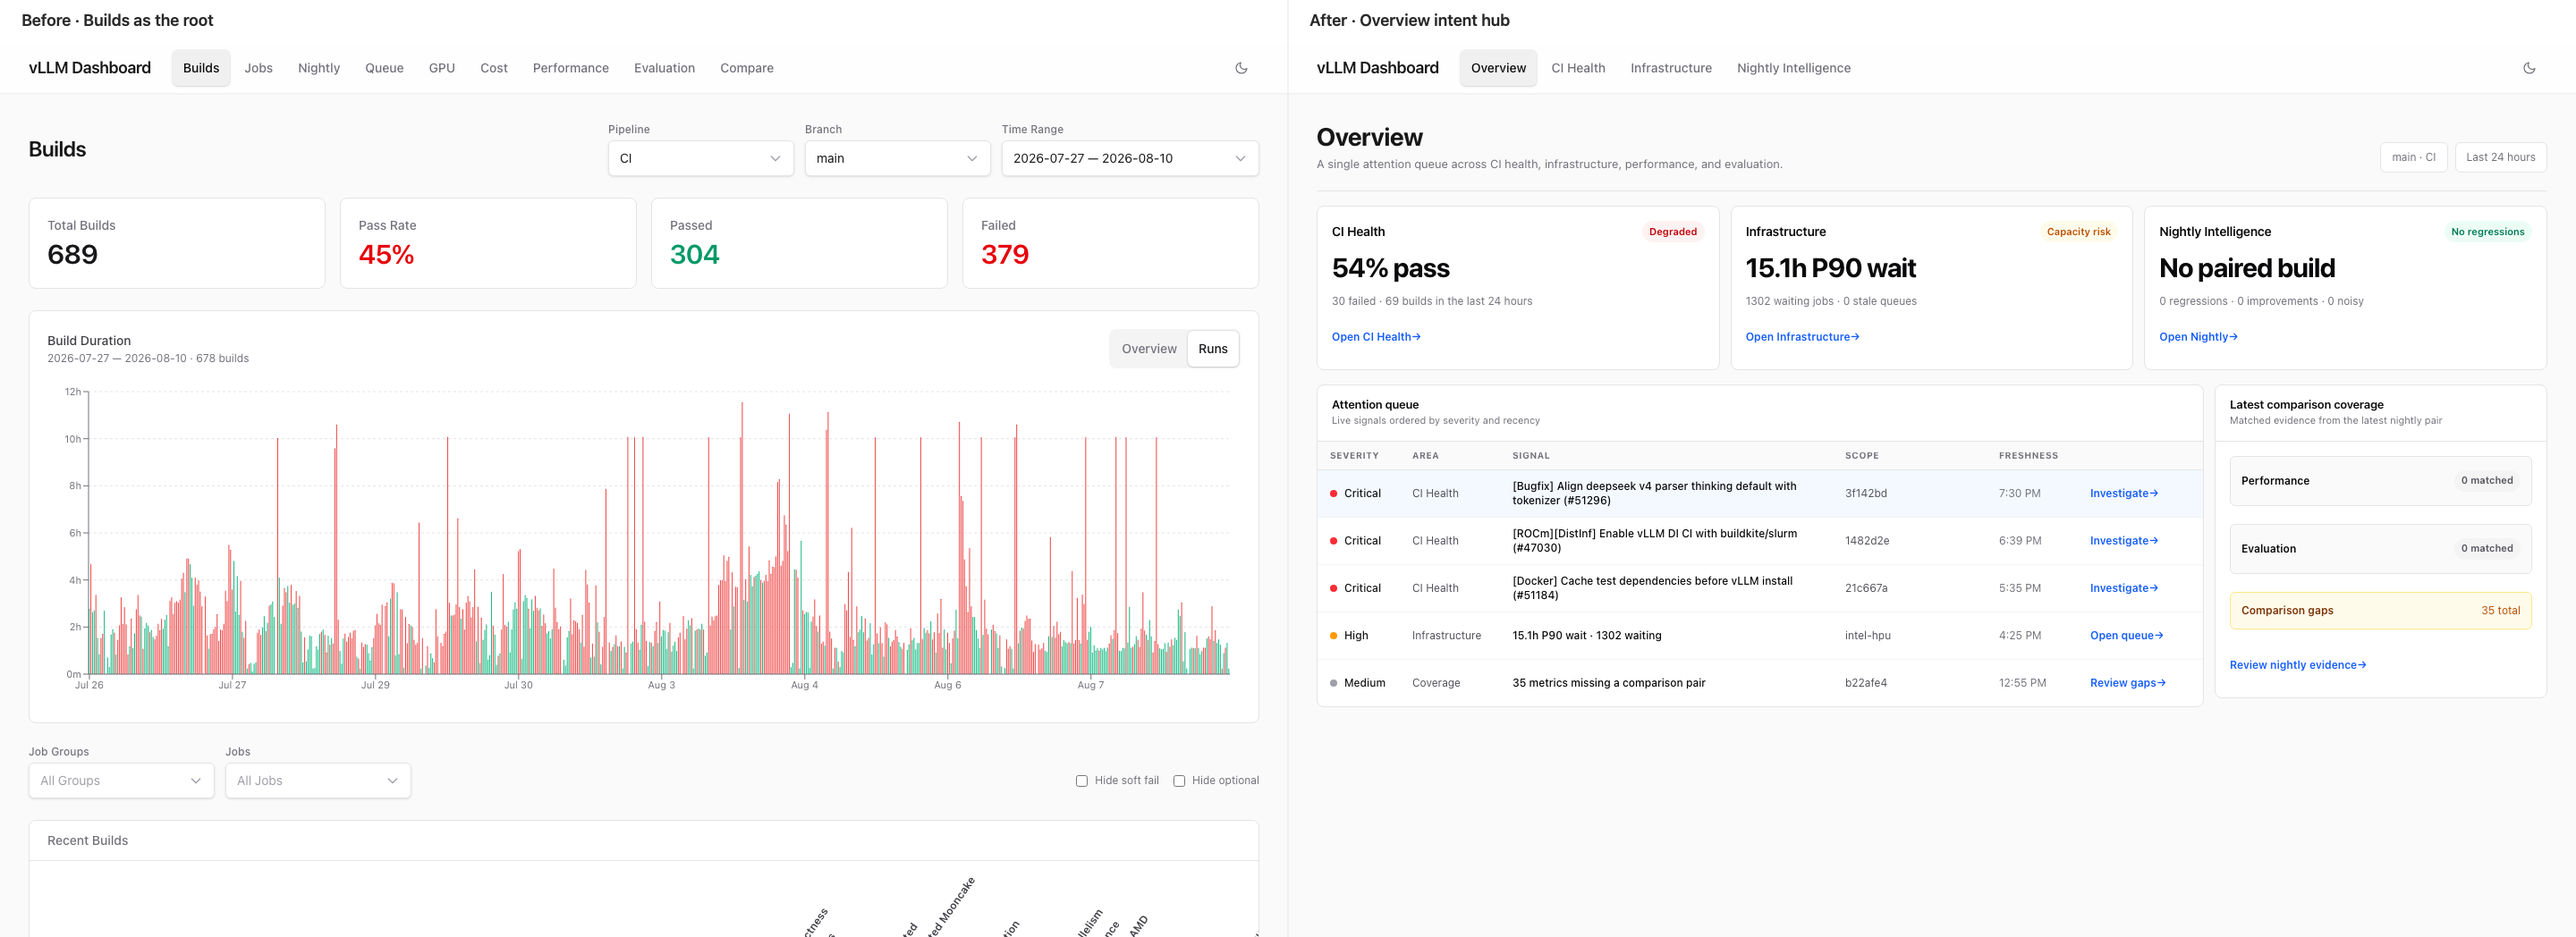
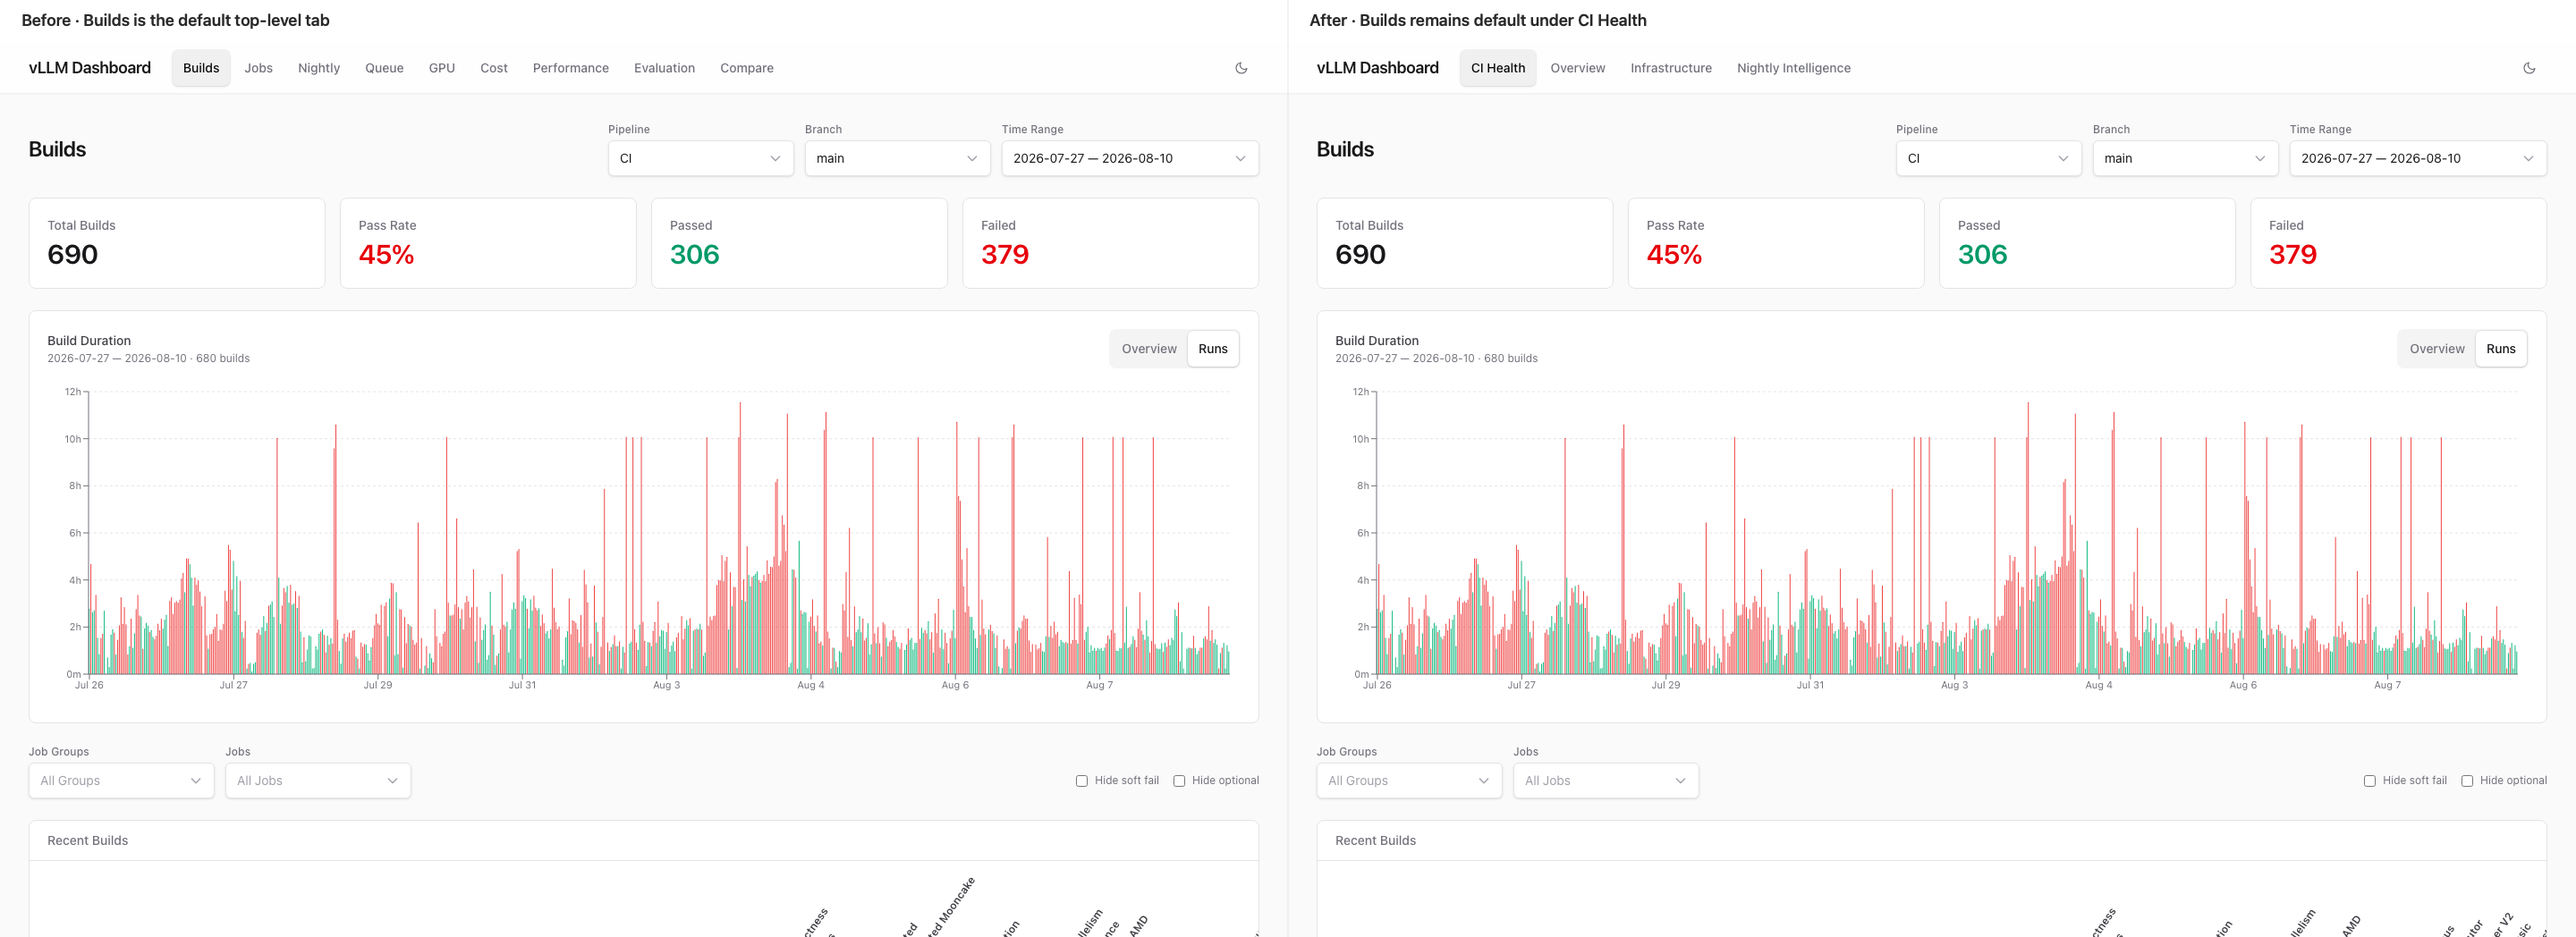
Land CI Health on Builds by default

diff --git a/src/app/page.tsx b/src/app/page.tsx
@@ -1,5 +1,5 @@
-import { BuildsDashboard } from "@/components/builds-dashboard";
+import { redirect } from "next/navigation";
 
-export default function BuildsPage() {
-  return <BuildsDashboard />;
+export default function HomePage() {
+  redirect("/ci/builds");
 }
